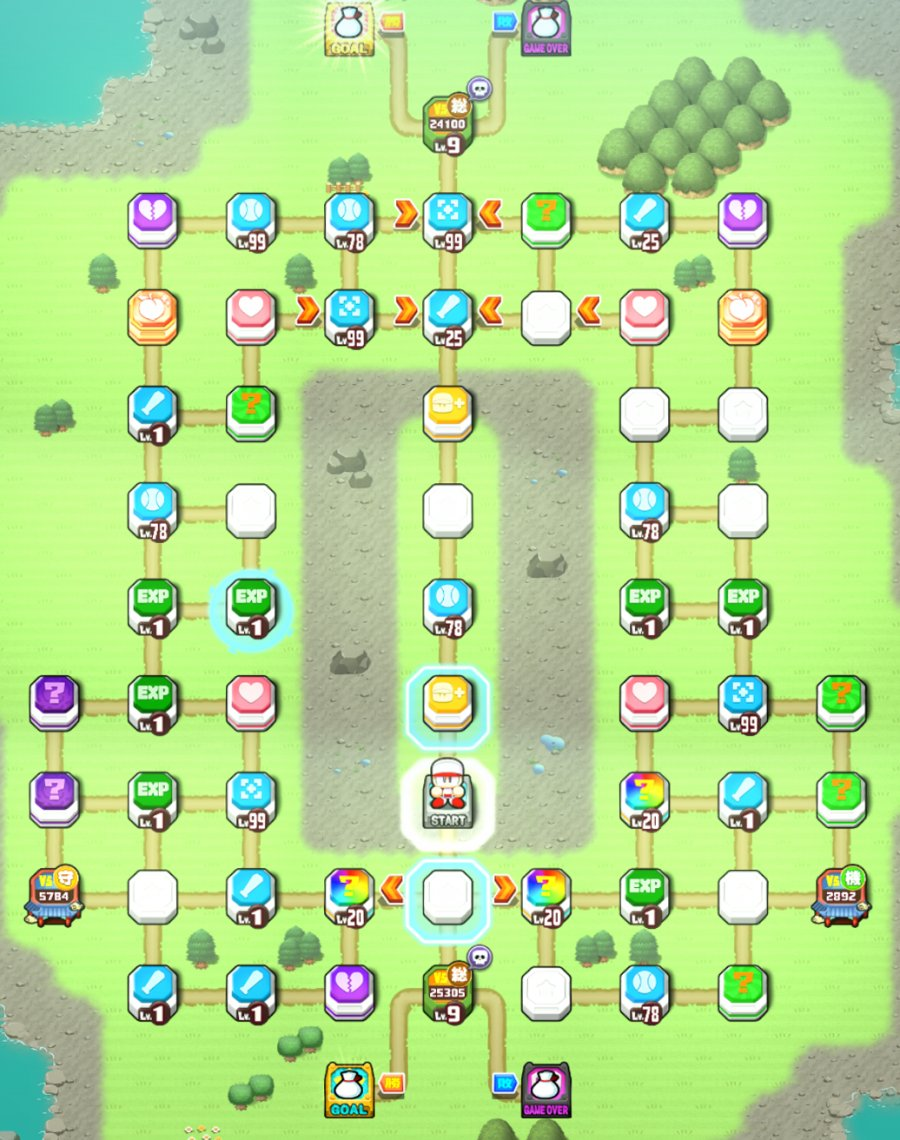
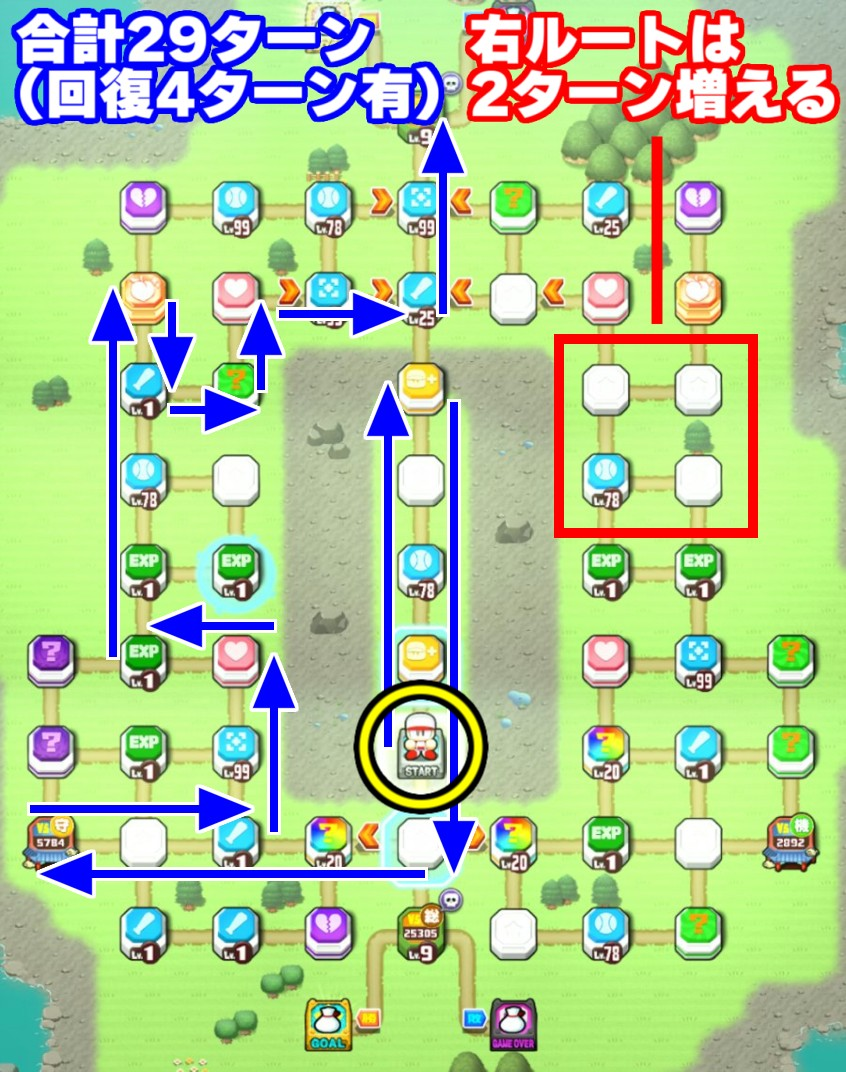
むずクエ攻略：エリア1の画像差し替え・文章追加 (#365)
* むずクエ攻略：エリア1の画像を管理人のルート入り画像に差し替え

Claude-Session: https://claude.ai/code/session_019YJeSxSnhDz2qD8AHUxLum

* むずクエ攻略：エリア1の画像をスタート位置に丸印のある版に差し替え

Claude-Session: https://claude.ai/code/session_019YJeSxSnhDz2qD8AHUxLum

* むずクエ攻略：エリア1「上からは〜」の文を赤文字に

Claude-Session: https://claude.ai/code/session_019YJeSxSnhDz2qD8AHUxLum

* むずクエ攻略：エリア1に左ルート29ターンの説明を追加

Claude-Session: https://claude.ai/code/session_019YJeSxSnhDz2qD8AHUxLum

* むずクエ攻略：「ターンアップ」を途中で折り返さない

Claude-Session: https://claude.ai/code/session_019YJeSxSnhDz2qD8AHUxLum

---------

Changed region(s): [[0.0, 0.0, 1.0, 0.6157], [0.0307, 0.3386, 0.5839, 0.8619], [0.3688, 0.9543, 0.3995, 0.9851]]

diff --git a/src/pages/pawaque-saikyuki-muzu.html b/src/pages/pawaque-saikyuki-muzu.html
@@ -22,11 +22,12 @@ pq_order: 8
   </nav>
 
   <h2 id="area1">エリア1</h2>
-  <img class="pq-img" src="{{root}}img/pawaque/saikyuki_muzu_area1.jpg" alt="むずクエ エリア1のマップ全体" width="900" height="1140" loading="lazy">
+  <img class="pq-img" src="{{root}}img/pawaque/saikyuki_muzu_area1.jpg" alt="むずクエ エリア1のマップ全体とおすすめルート" width="846" height="1072" loading="lazy">
   <p>中央下の位置からスタート<span class="cp-nw">固定です。</span></p>
-  <p>スカウトマスがスタート位置の上にありますが、上からは神前試合のルートに入ることが出来ず、折り返して下から行かなければ<span class="cp-nw">いけません。</span></p>
+  <p>スカウトマスがスタート位置の上にありますが、<span class="tx-r">上からは神前試合のルートに入ることが出来ず、折り返して下から行かなければ<span class="cp-nw">いけません。</span></span></p>
   <p>スタート上のスカウトマスを踏みながら神前試合マスも通る場合、必然的に空白マスを多く通る事になるので、<span class="em-blue"><span class="cp-nw">回復の術 空白</span>を最初に使うのが<span class="cp-nw">オススメです。</span></span></p>
   <p><span class="cp-nw">回復の術 空白</span>は、エリア2でも有効に<span class="cp-nw">働きます。</span></p>
+  <p>画像のようにスカウトマスを通って折り返し、左ルートへ進んだ場合は29ターンかかります。途中で回復マスが2回ありますがそれでもターンが足りないので、<span class="em-blue"><span class="cp-nw">「ターンアップ」</span>のスキルと、回復の術の発動が<span class="cp-nw">必須になります。</span></span></p>
   <p><span class="tx-r">右ルートの方は直線的に移動できない場所があり、2ターン多く必要になるので注意が<span class="cp-nw">必要です。</span></span></p>
   <p>桃マスでは、次のエリアに向けて<span class="em-blue cp-nw">回復の術 金</span>を<span class="cp-nw">発動しましょう。</span><br><span class="tx-r">発動には金ノ書が<span class="cp-nw">必要になります。</span></span></p>
 

diff --git a/docs/pawaque/saikyuki/muzu/index.html b/docs/pawaque/saikyuki/muzu/index.html
@@ -71,11 +71,12 @@
   </nav>
 
   <h2 id="area1">エリア1</h2>
-  <img class="pq-img" src="../../../img/pawaque/saikyuki_muzu_area1.jpg" alt="むずクエ エリア1のマップ全体" width="900" height="1140" loading="lazy">
+  <img class="pq-img" src="../../../img/pawaque/saikyuki_muzu_area1.jpg" alt="むずクエ エリア1のマップ全体とおすすめルート" width="846" height="1072" loading="lazy">
   <p>中央下の位置からスタート<span class="cp-nw">固定です。</span></p>
-  <p>スカウトマスがスタート位置の上にありますが、上からは神前試合のルートに入ることが出来ず、折り返して下から行かなければ<span class="cp-nw">いけません。</span></p>
+  <p>スカウトマスがスタート位置の上にありますが、<span class="tx-r">上からは神前試合のルートに入ることが出来ず、折り返して下から行かなければ<span class="cp-nw">いけません。</span></span></p>
   <p>スタート上のスカウトマスを踏みながら神前試合マスも通る場合、必然的に空白マスを多く通る事になるので、<span class="em-blue"><span class="cp-nw">回復の術 空白</span>を最初に使うのが<span class="cp-nw">オススメです。</span></span></p>
   <p><span class="cp-nw">回復の術 空白</span>は、エリア2でも有効に<span class="cp-nw">働きます。</span></p>
+  <p>画像のようにスカウトマスを通って折り返し、左ルートへ進んだ場合は29ターンかかります。途中で回復マスが2回ありますがそれでもターンが足りないので、<span class="em-blue"><span class="cp-nw">「ターンアップ」</span>のスキルと、回復の術の発動が<span class="cp-nw">必須になります。</span></span></p>
   <p><span class="tx-r">右ルートの方は直線的に移動できない場所があり、2ターン多く必要になるので注意が<span class="cp-nw">必要です。</span></span></p>
   <p>桃マスでは、次のエリアに向けて<span class="em-blue cp-nw">回復の術 金</span>を<span class="cp-nw">発動しましょう。</span><br><span class="tx-r">発動には金ノ書が<span class="cp-nw">必要になります。</span></span></p>
 
